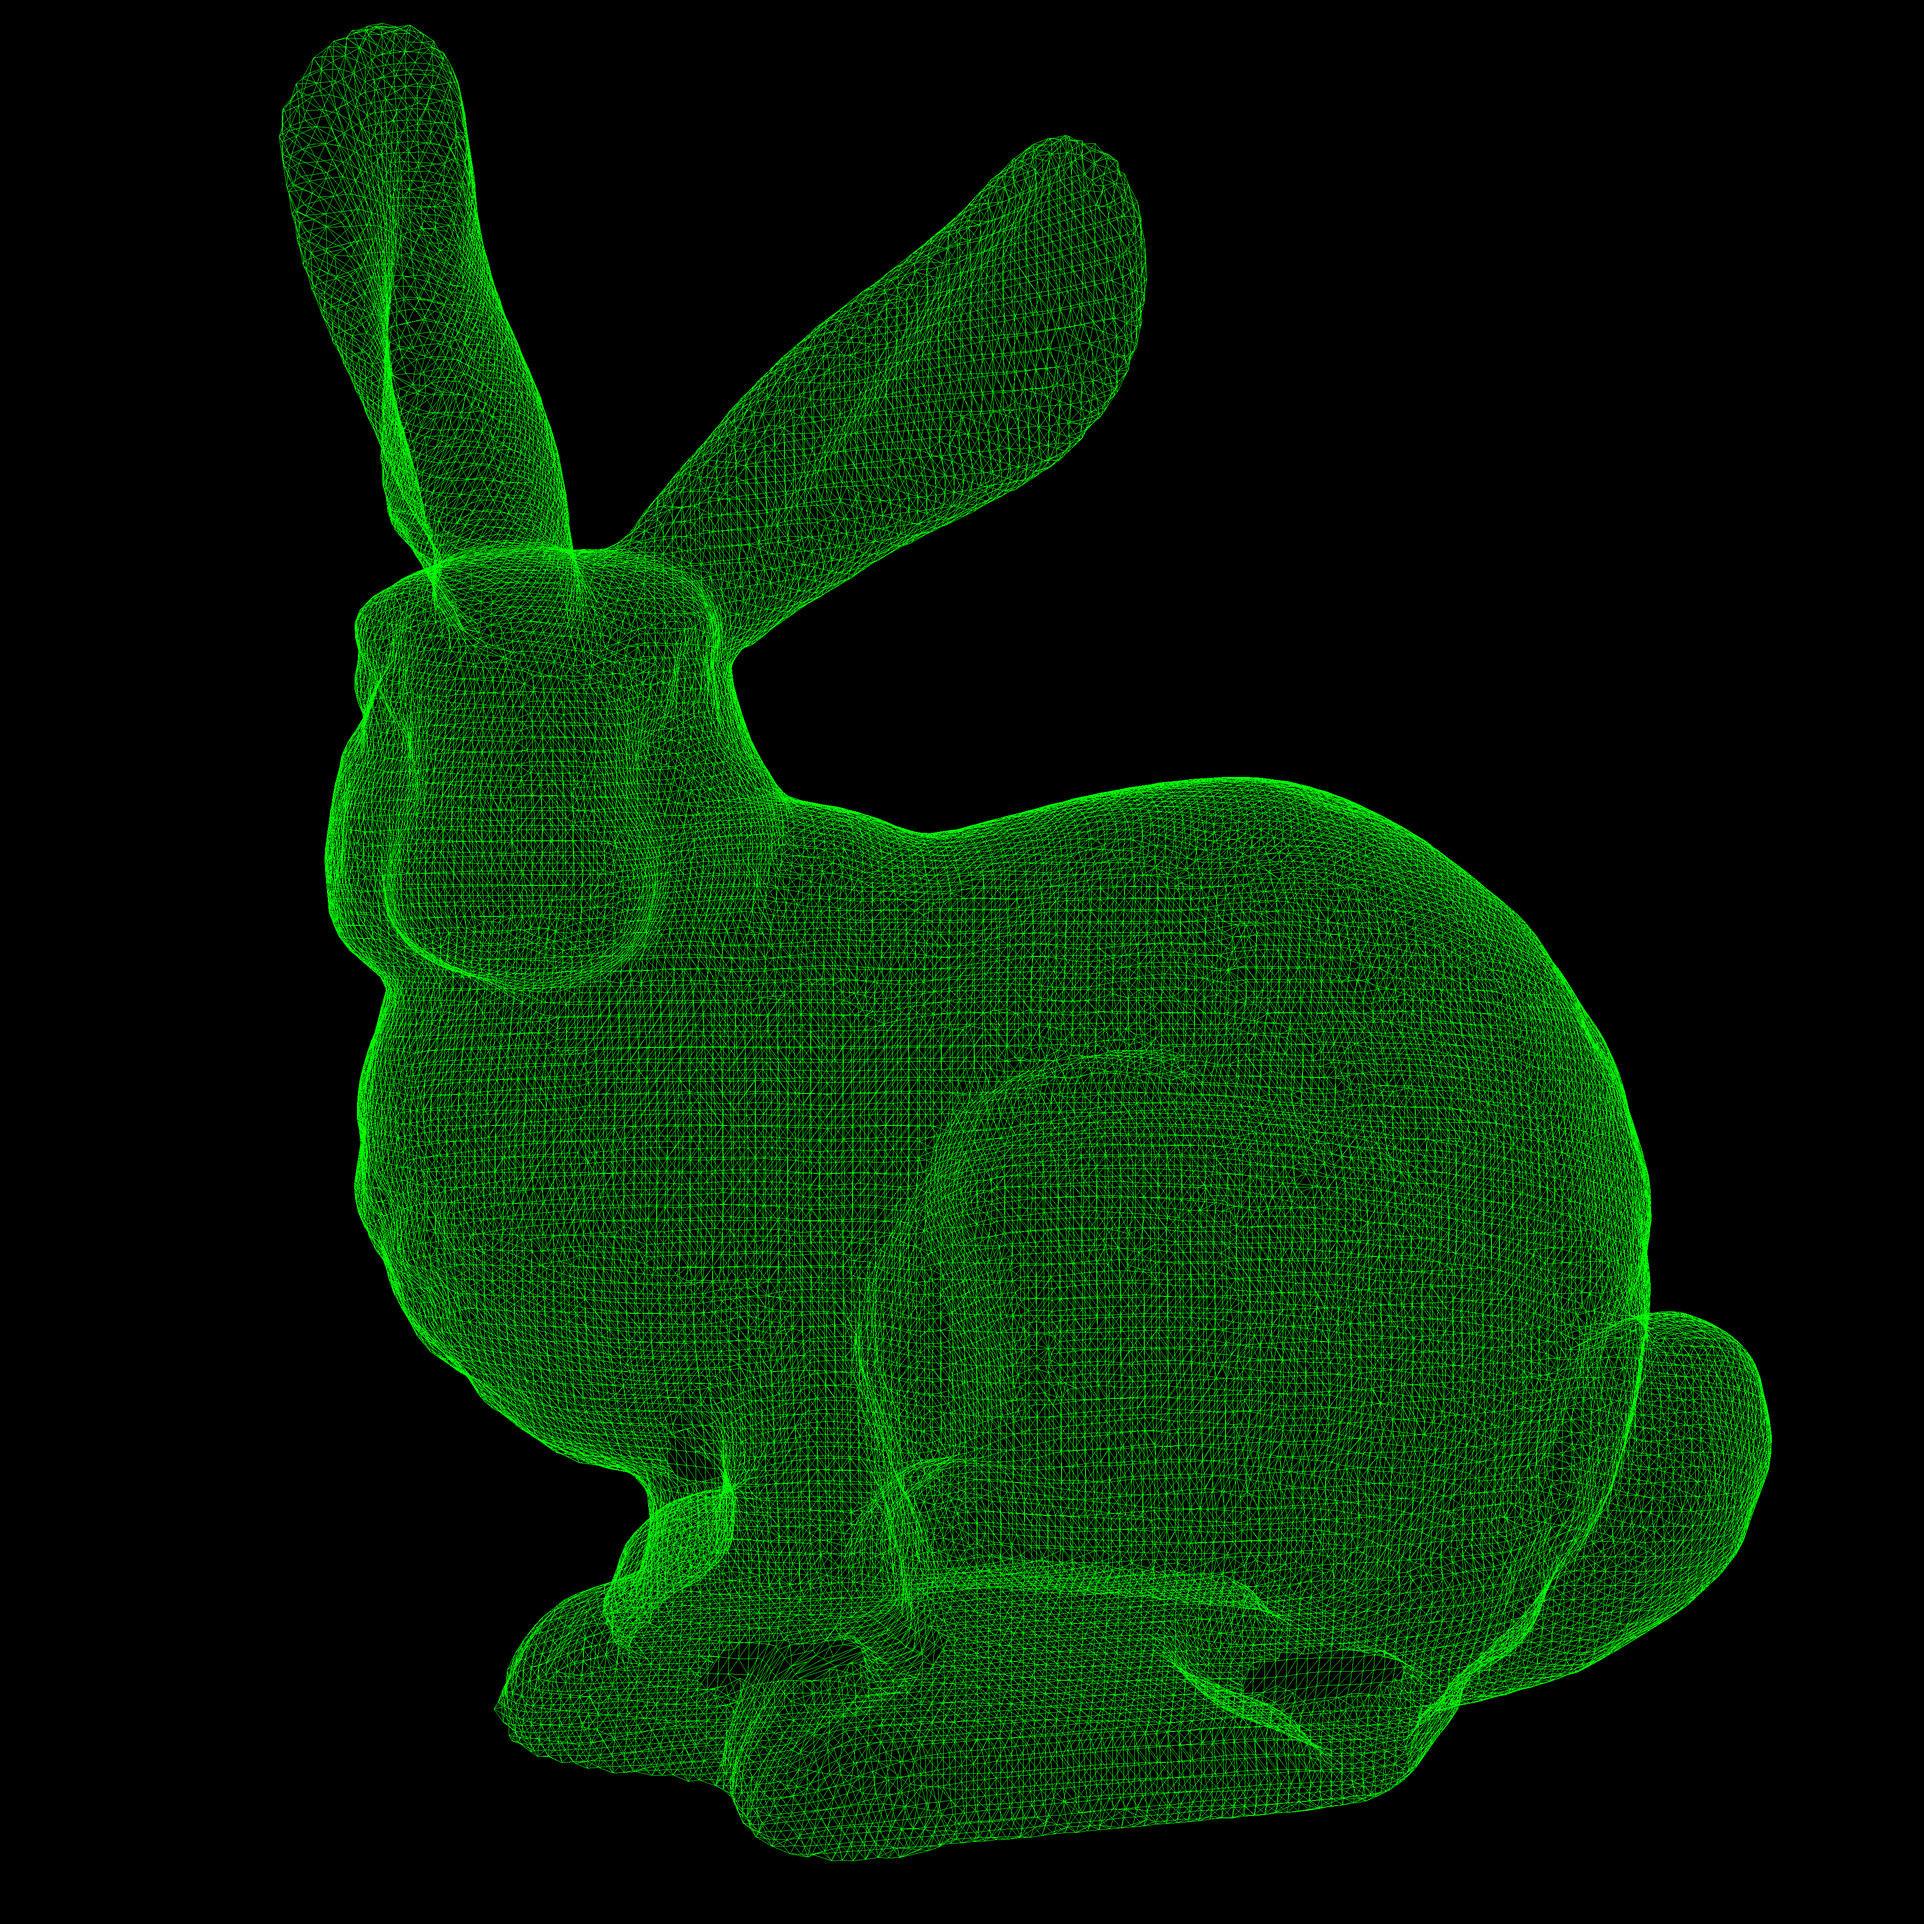
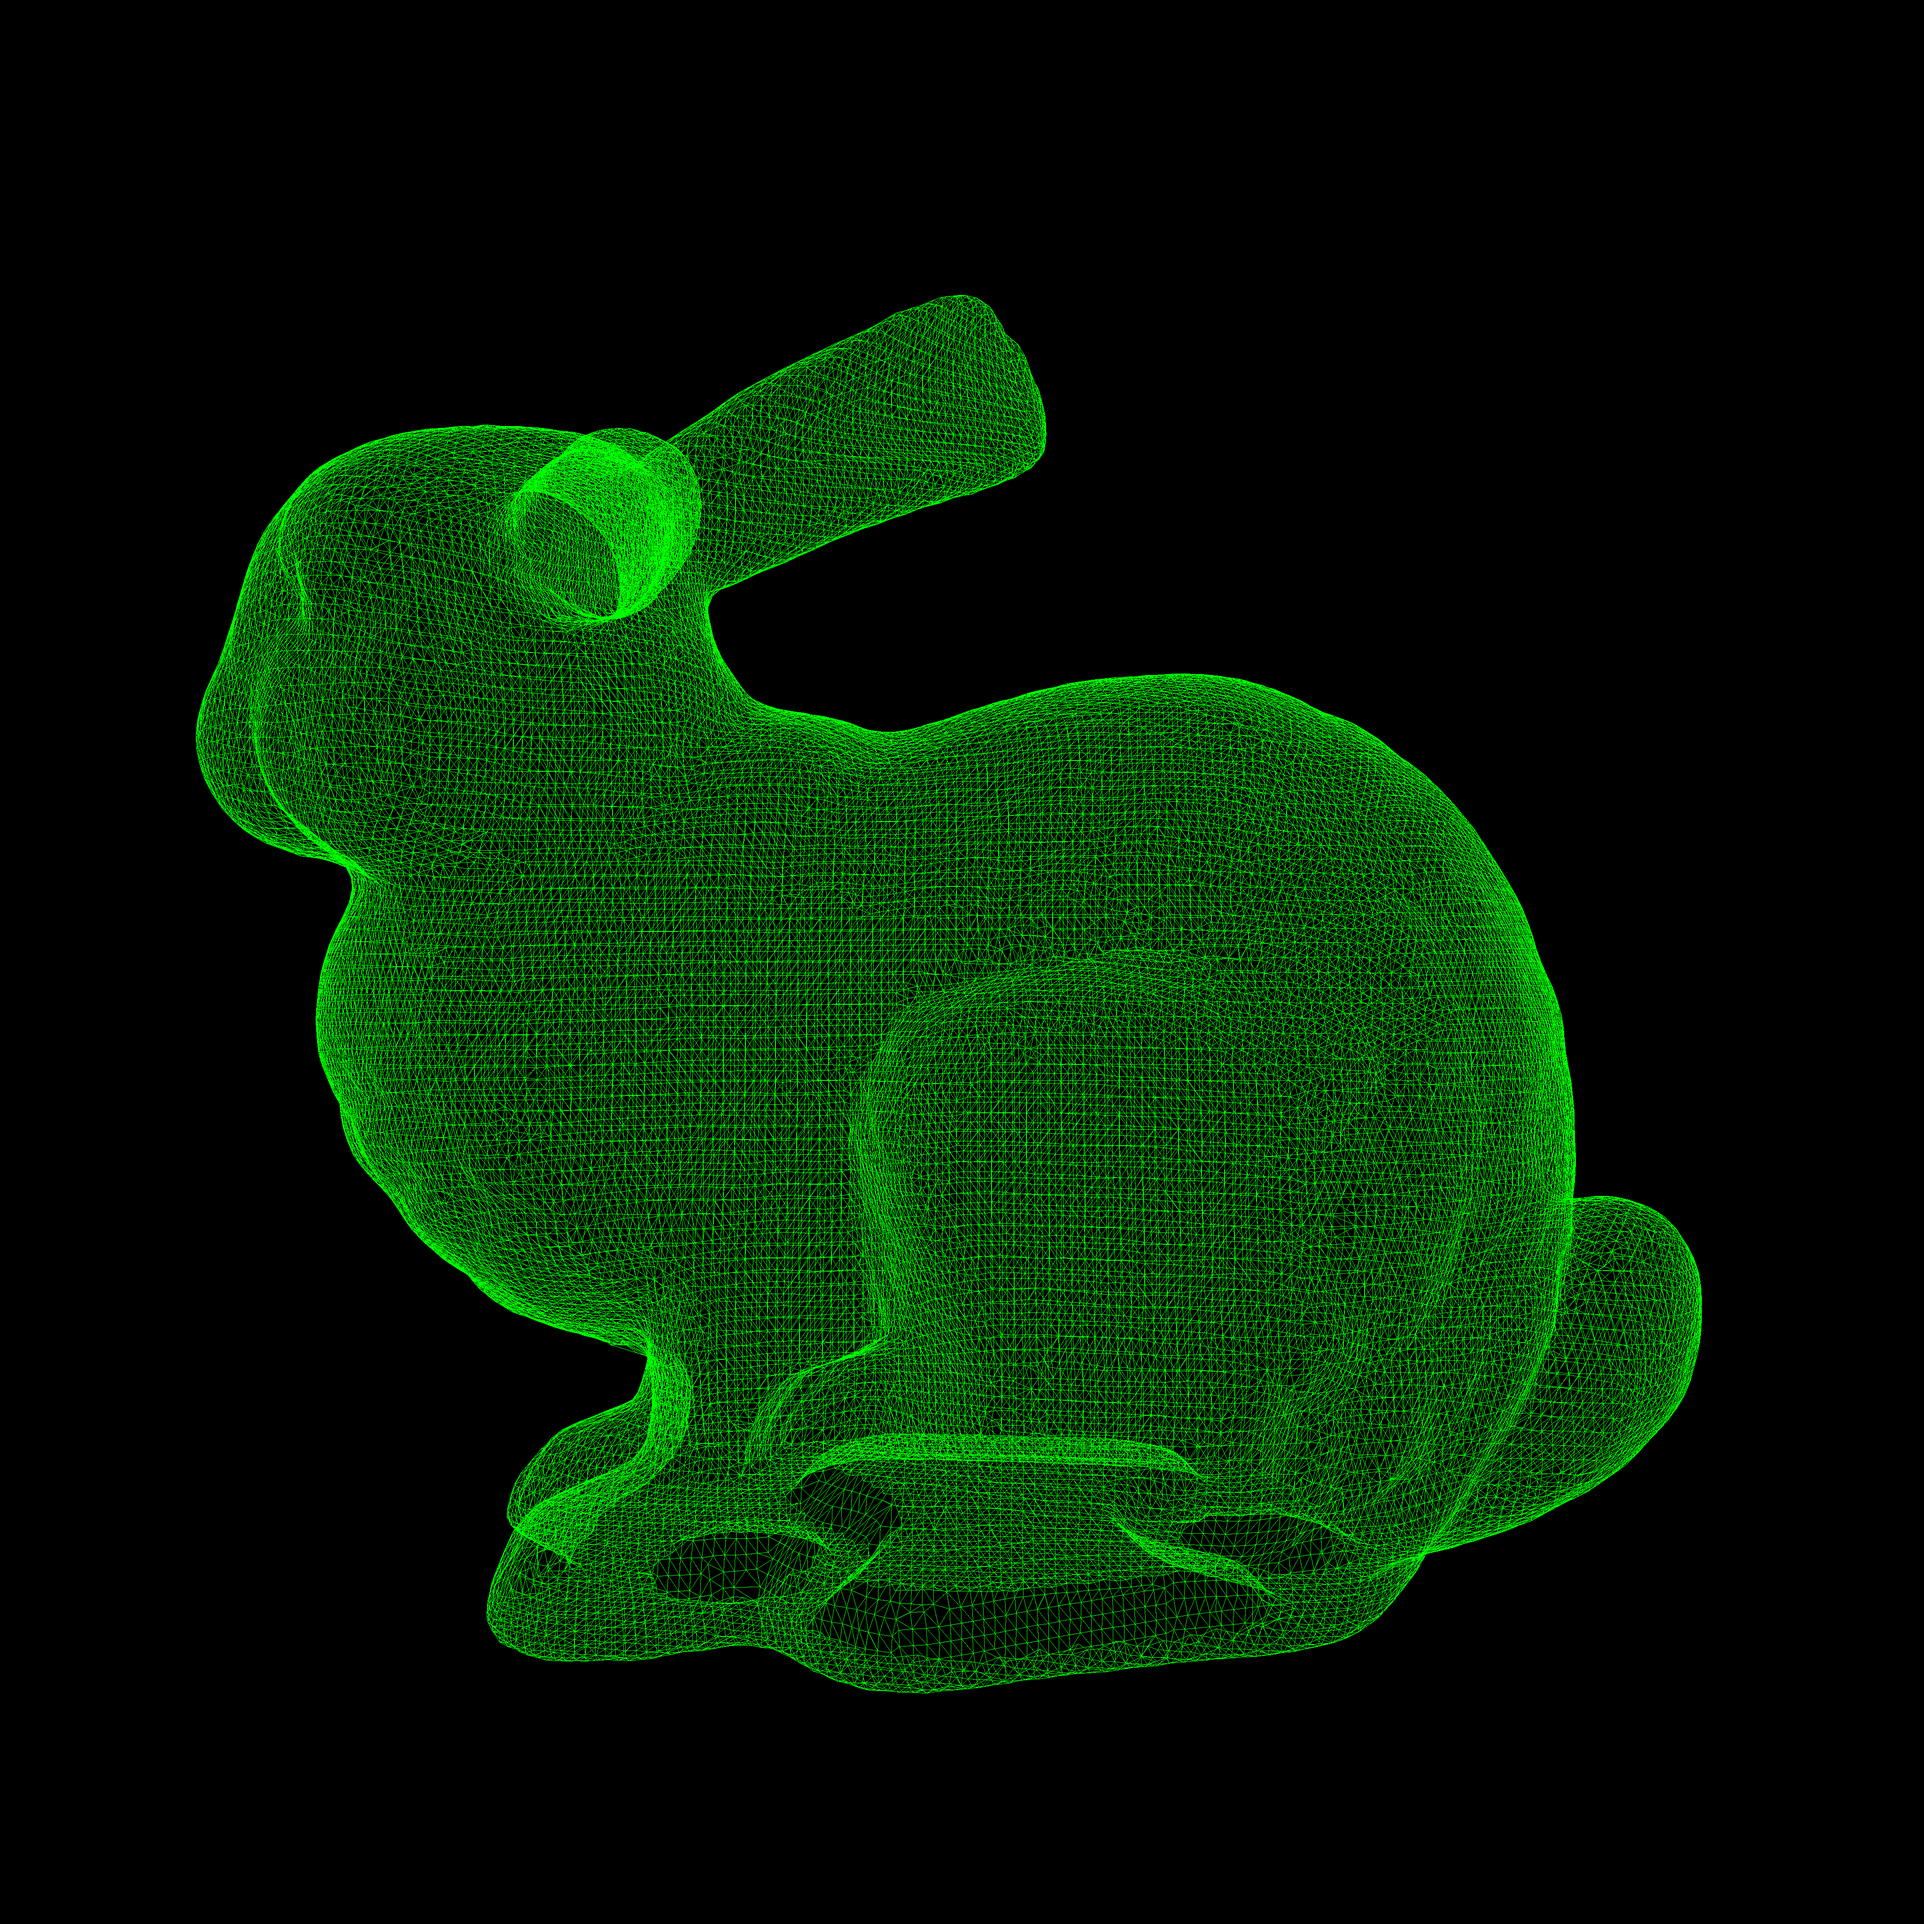
added view and projection matrices

Changed region(s): [[0.0938, 0.0, 0.9375, 0.9688]]

diff --git a/src/math.rs b/src/math.rs
@@ -1,3 +1,5 @@
+use std::ops::{Add, Div, Mul, Sub};
+
 #[derive(Copy, Clone)]
 pub struct Pixel {
     pub x: usize,
@@ -10,11 +12,11 @@ impl Pixel {
     }
 }
 
-#[derive(Copy, Clone)]
-pub struct Vec2 {
-    pub x: f32,
-    pub y: f32,
-}
+// #[derive(Copy, Clone)]
+// pub struct Vec2 {
+//     pub x: f32,
+//     pub y: f32,
+// }
 
 // impl Vec2 {
 //     fn new(x: f32, y: f32) -> Vec2 {
@@ -34,11 +36,183 @@ impl Vec3 {
         Self { x, y, z }
     }
 
-    // pub fn splat(v: f32) -> Self {
-    //     Self::new(v, v, v)
-    // }
+    pub fn splat(v: f32) -> Self {
+        Self::new(v, v, v)
+    }
+
+    pub fn zero() -> Self {
+        Self::splat(0.0)
+    }
 
     pub fn from_array(a: [f32; 3]) -> Self {
         Self::new(a[0], a[1], a[2])
+    }
+
+    pub fn dot(self, v: Vec3) -> f32 {
+        self.x * v.x + self.y * v.y + self.z * v.z
+    }
+
+    pub fn len(self) -> f32 {
+        self.dot(self).sqrt()
+    }
+
+    pub fn normalize(self) -> Vec3 {
+        let len = self.len();
+        if len > f32::EPSILON {
+            self / len
+        } else {
+            Self::zero()
+        }
+    }
+
+    pub fn cross(self, v: Vec3) -> Self {
+        Self::new(
+            self.y * v.z - self.z * v.y,
+            self.z * v.x - self.x * v.z,
+            self.x * v.y - self.y * v.x,
+        )
+    }
+}
+
+impl Div<f32> for Vec3 {
+    type Output = Self;
+
+    fn div(self, rhs: f32) -> Self::Output {
+        Self::new(self.x / rhs, self.y / rhs, self.z / rhs)
+    }
+}
+
+impl Mul for Vec3 {
+    type Output = Self;
+
+    fn mul(self, rhs: Self) -> Self::Output {
+        Self::new(self.x * rhs.x, self.y * rhs.y, self.z * rhs.z)
+    }
+}
+
+impl Sub for Vec3 {
+    type Output = Self;
+
+    fn sub(self, rhs: Self) -> Self::Output {
+        Self::new(self.x - rhs.x, self.y - rhs.y, self.z - rhs.z)
+    }
+}
+
+impl Add for Vec3 {
+    type Output = Self;
+
+    fn add(self, rhs: Self) -> Self::Output {
+        Self::new(self.x + rhs.x, self.y + rhs.y, self.z + rhs.z)
+    }
+}
+
+#[derive(Copy, Clone)]
+pub struct Vec4 {
+    pub x: f32,
+    pub y: f32,
+    pub z: f32,
+    pub w: f32,
+}
+
+impl Vec4 {
+    pub fn new(x: f32, y: f32, z: f32, w: f32) -> Self {
+        Self { x, y, z, w }
+    }
+
+    pub fn from_array(v: [f32; 4]) -> Self {
+        Self::new(v[0], v[1], v[2], v[3])
+    }
+
+    pub fn to_array(self) -> [f32; 4] {
+        [self.x, self.y, self.z, self.w]
+    }
+}
+
+#[derive(Copy, Clone)]
+pub struct Mat4 {
+    pub m: [f32; 16],
+}
+
+impl Mat4 {
+    // pub fn identity() -> Self {
+    //     Self {
+    //         #[rustfmt::skip]
+    //         m: [
+    //             1.0, 0.0, 0.0, 0.0,
+    //             0.0, 1.0, 0.0, 0.0,
+    //             0.0, 0.0, 1.0, 0.0,
+    //             0.0, 0.0, 0.0, 1.0,
+    //         ],
+    //     }
+    // }
+
+    // pub fn zero() -> Self {
+    //     Self { m: [0.0; 16] }
+    // }
+
+    pub fn perspective(fov: f32, aspect: f32, near: f32, far: f32) -> Self {
+        let f = 1.0 / (fov / 2.0).tan();
+        Self {
+            #[rustfmt::skip]
+            m: [
+                f / aspect, 0.0, 0.0,                         0.0,
+                0.0,        f,   0.0,                         0.0,
+                0.0,        0.0, (far + near) / (near - far), (2.0 * far * near) / (near - far),
+                0.0,        0.0, -1.0,                        0.0,
+            ],
+        }
+    }
+
+    pub fn look_at(eye: Vec3, target: Vec3, up: Vec3) -> Self {
+        let f = (target - eye).normalize();
+        let s = f.cross(up).normalize();
+        let u = s.cross(f);
+
+        Self {
+            #[rustfmt::skip]
+            m: [
+                s.x,  s.y,  s.z,  -s.dot(eye),
+                u.x,  u.y,  u.z,  -u.dot(eye),
+                -f.x, -f.y, -f.z, f.dot(eye),
+                0.0,  0.0,  0.0,  1.0,
+            ],
+        }
+    }
+}
+
+impl Mul<Vec4> for Mat4 {
+    type Output = Vec4;
+
+    fn mul(self, rhs: Vec4) -> Self::Output {
+        let v_arr = rhs.to_array();
+        let mut result = [0.0; 4];
+
+        for i in 0..4 {
+            let mut sum = 0.0;
+            for j in 0..4 {
+                sum += self.m[i * 4 + j] * v_arr[j];
+            }
+            result[i] = sum;
+        }
+        Vec4::from_array(result)
+    }
+}
+
+impl Mul for Mat4 {
+    type Output = Self;
+
+    fn mul(self, rhs: Self) -> Self::Output {
+        let mut m = [0.0; 16];
+
+        for i in 0..4 {
+            for j in 0..4 {
+                let mut sum = 0.0;
+                for k in 0..4 {
+                    sum += self.m[i * 4 + k] * rhs.m[k * 4 + j];
+                }
+                m[i * 4 + j] = sum;
+            }
+        }
+        Self { m }
     }
 }

diff --git a/src/rasterizer.rs b/src/rasterizer.rs
@@ -1,5 +1,5 @@
 use crate::framebuffer::Framebuffer;
-use crate::math::{Pixel, Vec2, Vec3};
+use crate::math::{Mat4, Pixel, Vec3, Vec4};
 
 #[allow(dead_code)]
 pub enum PolygonMode {
@@ -11,26 +11,27 @@ pub enum PolygonMode {
 pub struct Rasterizer<'a> {
     framebuffer: &'a mut Framebuffer,
     polygon_mode: PolygonMode,
-    fov: f32,
-    offset: f32,
+    view_proj: Mat4,
 }
 
 impl<'a> Rasterizer<'a> {
     pub fn new(
         framebuffer: &'a mut Framebuffer,
         polygon_mode: PolygonMode,
-        fov: f32,
-        offset: f32,
+        view_proj: Mat4,
     ) -> Self {
         Self {
             framebuffer,
             polygon_mode,
-            fov,
-            offset,
+            view_proj,
         }
     }
 
-    fn ndc_to_screen(&self, v: Vec2) -> Pixel {
+    fn clip_to_ndc(&self, v: Vec4) -> Vec3 {
+        Vec3::new(v.x / v.w, v.y / v.w, v.z / v.w)
+    }
+
+    fn ndc_to_screen(&self, v: Vec3) -> Pixel {
         let x = ((v.x + 1.0) / 2.0) * self.framebuffer.width as f32;
         let y = ((-v.y + 1.0) / 2.0) * self.framebuffer.height as f32;
 
@@ -40,19 +41,9 @@ impl<'a> Rasterizer<'a> {
         }
     }
 
-    fn project(&self, v: Vec3, offset: f32) -> Vec2 {
-        let fov_radians = self.fov.to_radians();
-        let aspect = self.framebuffer.width as f32 / self.framebuffer.height as f32;
-        let z = v.z + offset;
-
-        Vec2 {
-            x: (v.x + 0.025) / z / (aspect * (fov_radians / 2.0).tan()),
-            y: (v.y - 0.112) / z / (fov_radians / 2.0).tan(),
-        }
-    }
-
     pub fn draw_point(&mut self, v: Vec3, color: &[u8]) {
-        let v_ndc = self.project(v, self.offset);
+        let v_clip = self.view_proj * Vec4::new(v.x, v.y, v.z, 1.0);
+        let v_ndc = self.clip_to_ndc(v_clip);
         let v_screen = self.ndc_to_screen(v_ndc);
         self.framebuffer.set_pixel(v_screen, color, 0.0);
     }
@@ -62,8 +53,10 @@ impl<'a> Rasterizer<'a> {
      * Web: https://en.wikipedia.org/wiki/Bresenham's_line_algorithm
      */
     fn draw_line(&mut self, v0: Vec3, v1: Vec3, color: &[u8]) {
-        let v0_ndc = self.project(v0, self.offset);
-        let v1_ndc = self.project(v1, self.offset);
+        let v0_clip = self.view_proj * Vec4::new(v0.x, v0.y, v0.z, 1.0);
+        let v1_clip = self.view_proj * Vec4::new(v1.x, v1.y, v1.z, 1.0);
+        let v0_ndc = self.clip_to_ndc(v0_clip);
+        let v1_ndc = self.clip_to_ndc(v1_clip);
         let v0_screen = self.ndc_to_screen(v0_ndc);
         let v1_screen = self.ndc_to_screen(v1_ndc);
 
@@ -81,18 +74,15 @@ impl<'a> Rasterizer<'a> {
         loop {
             self.framebuffer
                 .set_pixel(Pixel::new(x0 as usize, y0 as usize), color, 0.0);
+            if x0 == x1 && y0 == y1 {
+                break;
+            }
             let e2 = 2 * error;
             if e2 >= dy {
-                if x0 == x1 {
-                    break;
-                }
                 error += dy;
                 x0 += sx;
             }
             if e2 <= dx {
-                if y0 == y1 {
-                    break;
-                }
                 error += dx;
                 y0 += sy;
             }

diff --git a/src/main.rs b/src/main.rs
@@ -4,15 +4,27 @@ mod mesh;
 mod rasterizer;
 
 use crate::framebuffer::Framebuffer;
+use crate::math::{Mat4, Vec3};
 use crate::mesh::Mesh;
 use crate::rasterizer::{PolygonMode, Rasterizer};
+
+// TODO: Clipping
 
 fn main() -> std::io::Result<()> {
     let width = 4096;
     let height = 4096;
 
     let mut framebuffer = Framebuffer::new(width, height);
-    let mut rasterizer = Rasterizer::new(&mut framebuffer, PolygonMode::Line, 50.0, 0.21);
+    let eye = Vec3::new(-0.02, 0.1, 0.2);
+    let forward = Vec3::new(0.0, 0.0, -1.0);
+    let view = Mat4::look_at(eye, eye + forward, Vec3::new(0.0, 1.0, 0.0));
+    let proj = Mat4::perspective(
+        60.0_f32.to_radians(),
+        width as f32 / height as f32,
+        0.1,
+        100.0,
+    );
+    let mut rasterizer = Rasterizer::new(&mut framebuffer, PolygonMode::Line, proj * view);
 
     let mesh = Mesh::load_obj("models/bunny.obj")?;
     for face in mesh.faces {

diff --git a/src/framebuffer.rs b/src/framebuffer.rs
@@ -33,6 +33,7 @@ impl Framebuffer {
         }
         let base = index * 3;
         self.color[base..base + 3].copy_from_slice(color);
+        self.depth[index] = depth;
     }
 
     pub fn save_ppm(&self, path: impl AsRef<Path>) -> std::io::Result<()> {
